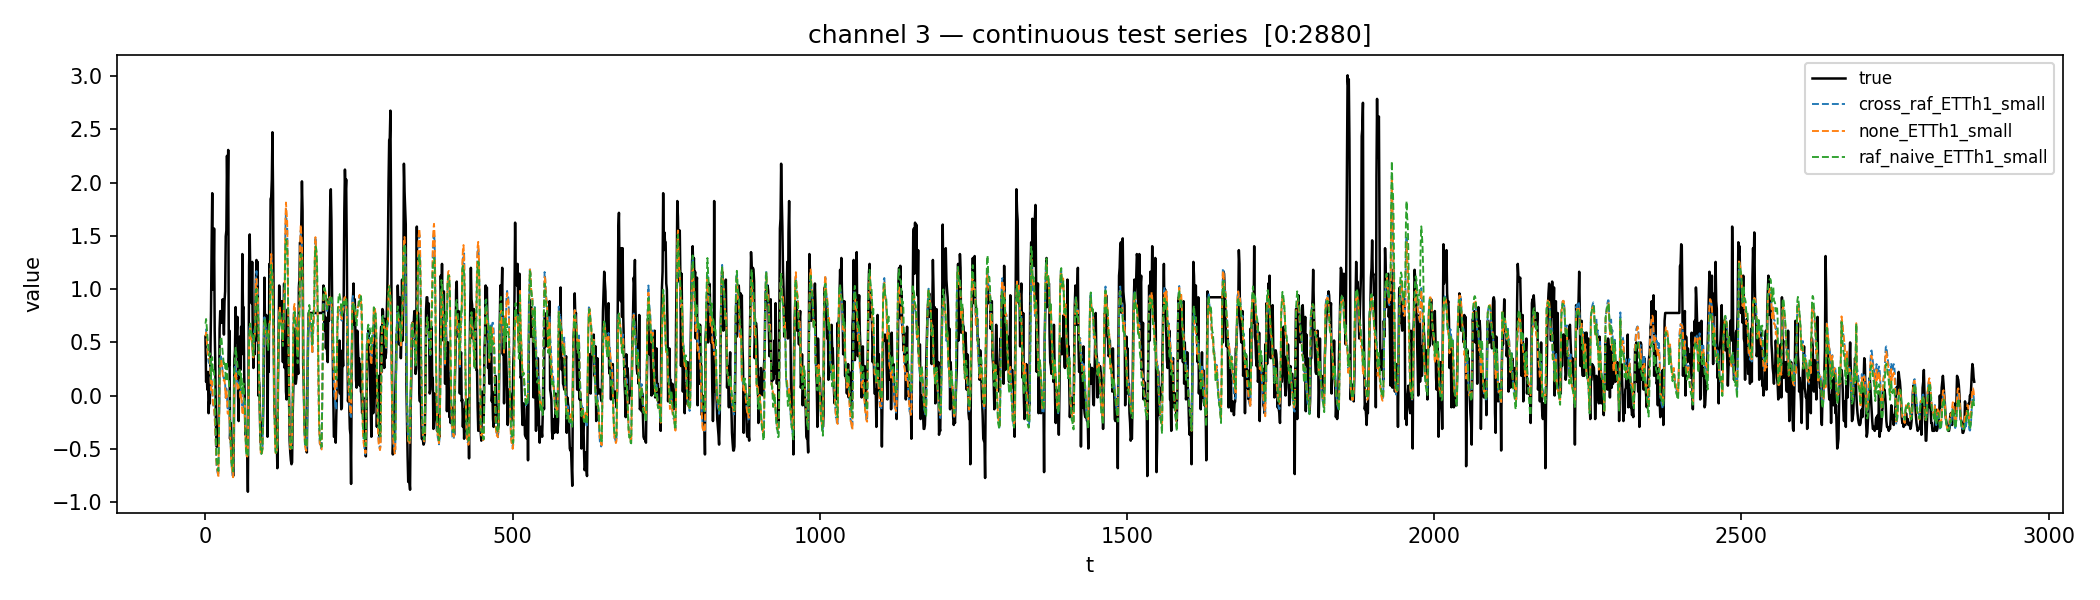
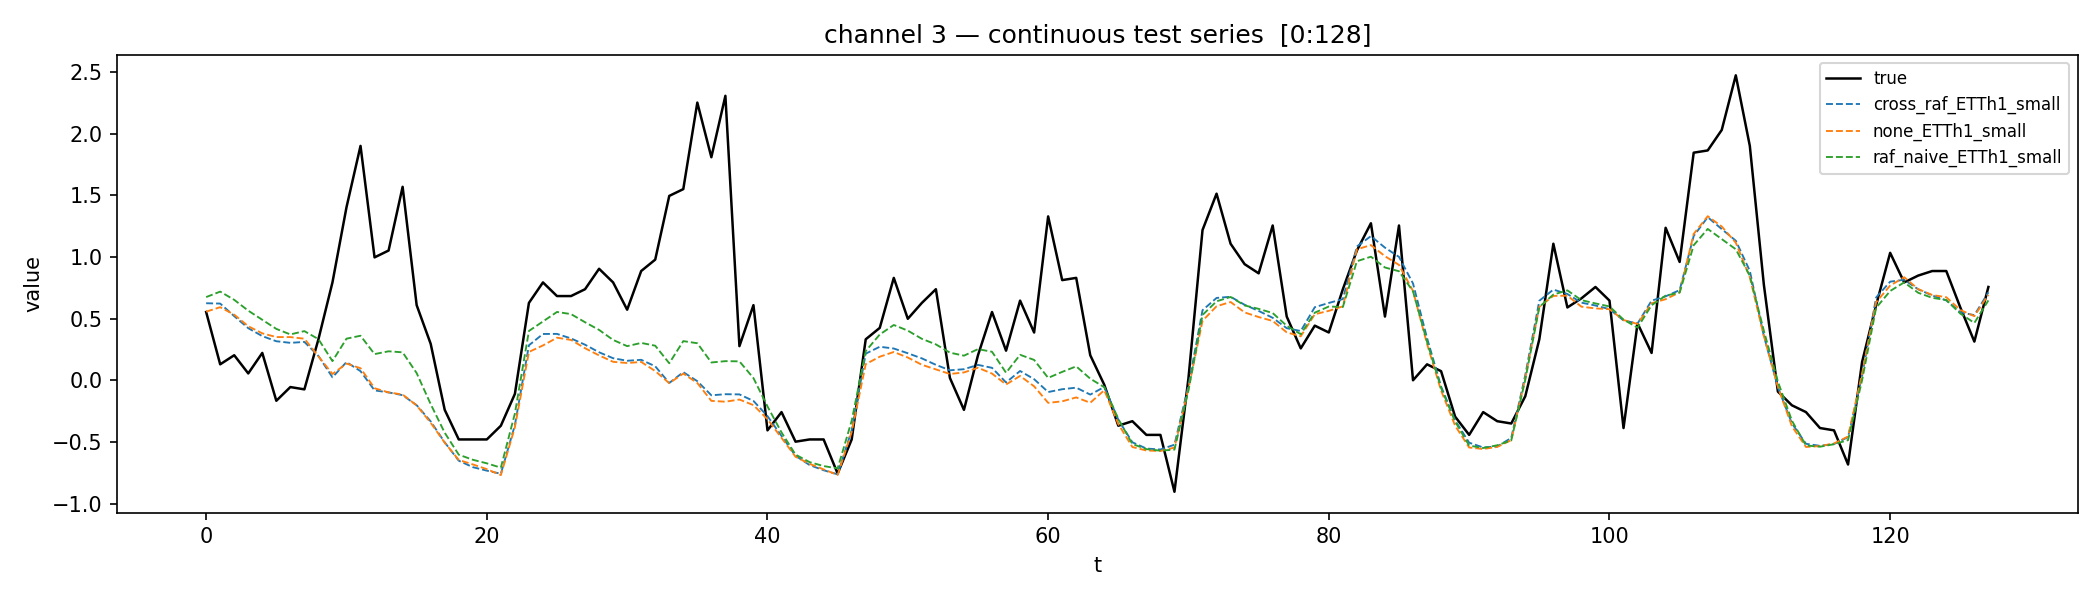
>_<

diff --git a/evaluate/plot_preds.py b/evaluate/plot_preds.py
@@ -67,7 +67,7 @@ def main():
     parser = argparse.ArgumentParser(description="Plot pred vs true as a continuous test series, per channel")
     parser.add_argument("csvs", nargs="*",
                         help="CSV file(s) to plot (default: all *_preds.csv in cached/)")
-    parser.add_argument("--seg", type=int, default=0,
+    parser.add_argument("--seg", type=int, default=640,
                         help="points per figure (0 = whole channel in one figure)")
     parser.add_argument("--save", type=str,
                         default=str(Path(__file__).resolve().parent / "plots"),

diff --git a/README.md b/README.md
@@ -224,7 +224,7 @@ python3 plot_preds.py
 # ファイルを明示（複数指定で重ねて比較。true は1本、pred を色分け）
 python3 plot_preds.py cached/none_ETTh1_small_preds.csv cached/cross_raf_ETTh1_small_preds.csv
 
-# 長いチャネルを seg 点ごとに分割（0=チャネル全体を1枚）
+# 1図あたりの長さを変える（既定640点 ≒ 10ウィンドウ。0=チャネル全体を1枚）
 python3 plot_preds.py --seg 2000
 
 # 保存先を変更（既定はスクリプト隣の plots/）
@@ -234,7 +234,7 @@ python3 plot_preds.py --save plots/ETTh1
 | 引数 | 説明 |
 |---|---|
 | `csvs` (位置引数) | プロットする CSV（省略時は `cached/*_preds.csv` を全て） |
-| `--seg N` | 1図あたりの点数（既定 `0`=チャネル全体を1枚） |
+| `--seg N` | 1図あたりの点数（既定 `640` ≒ 10ウィンドウ。`0`=チャネル全体を1枚） |
 | `--save DIR` | 保存先ディレクトリ（既定はスクリプト隣の `plots/`）。`chXX_segYYY.png` 形式で保存 |
 
 `channel` 列のない旧 CSV は全行を channel 0 として扱う。複数手法の数値比較は同ディレクトリの
